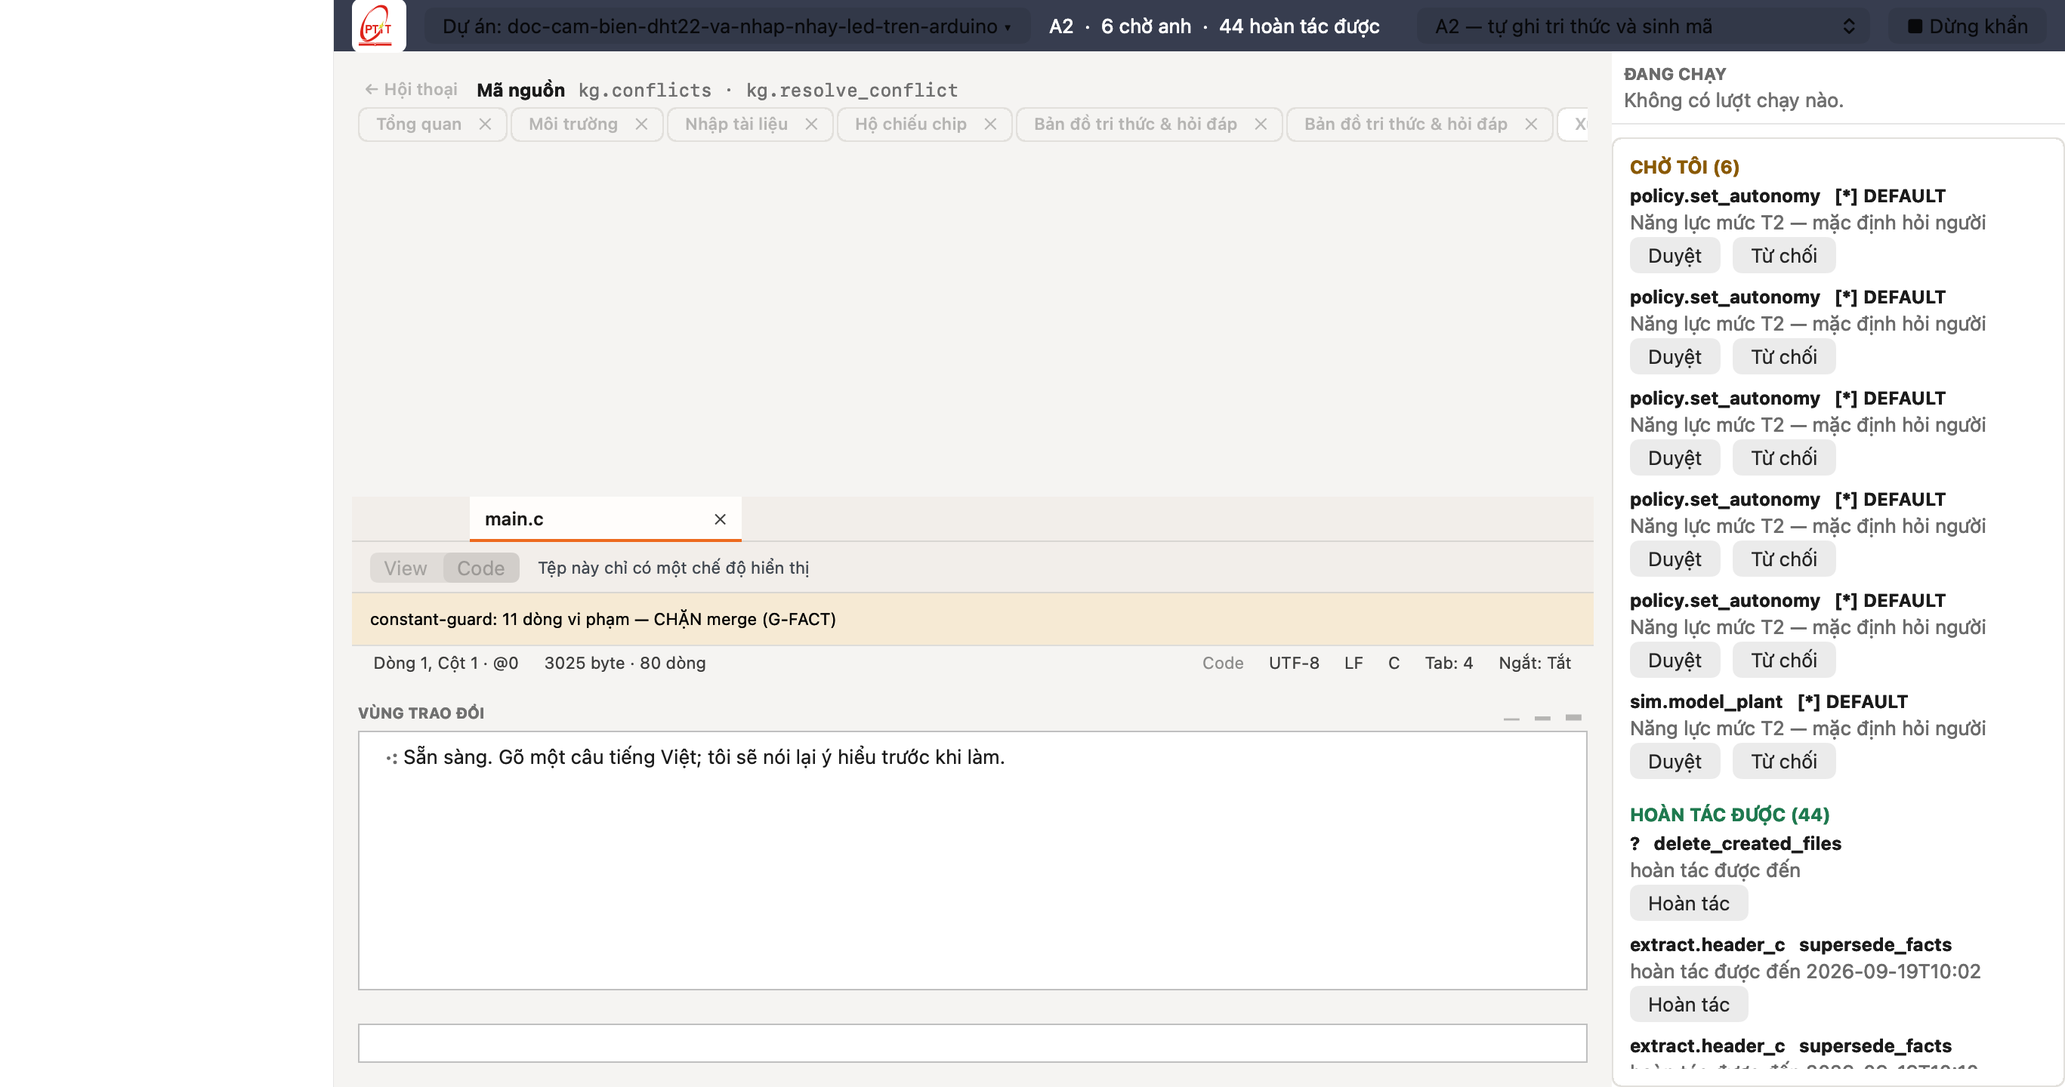
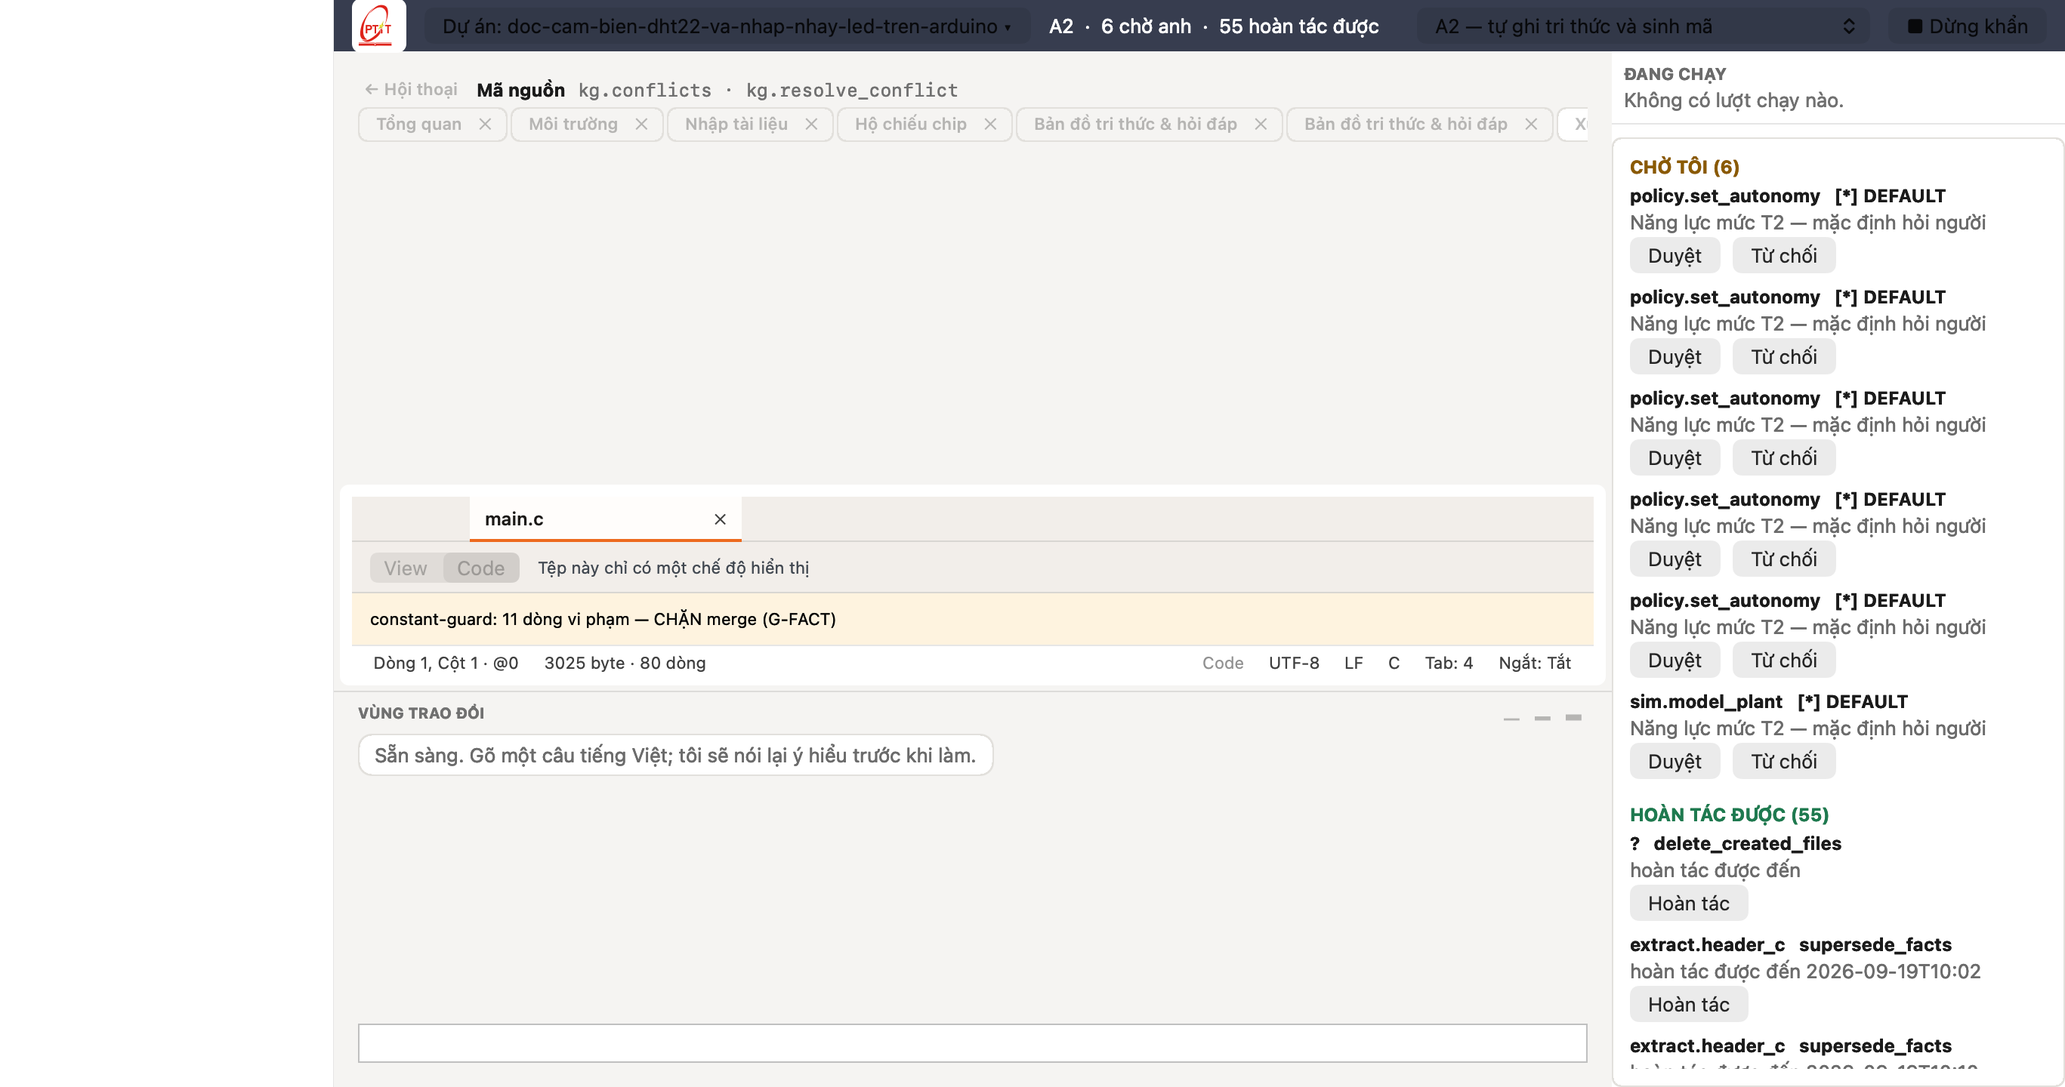
[DEV-130] vùng trao đổi thành bong bóng; ba vùng có ranh giới nhìn thấy được
Đọc: docs/EIDE_UI_Demo_v2.html (#screen, #dock, #chatlog, .msg); UXC-31 §2C,
§2D, §2D.5; UXD-13 v2.0 §3.1–3.2.

Chủ sản phẩm: "cần phân chia màn hình rõ ràng… khu vực trao đổi giữa người và
máy rất đơn giản, hãy xem thật kỹ mô tả để làm cho tử tế". Đúng ở cả hai vế.

- Vùng trao đổi vốn là một KHỐI VĂN BẢN nối chuỗi `Anh: … EIDE: …`. Nó đọc
  được, và nó bắt người phải LÀM VIỆC để biết ai đang nói. Nay là bong bóng:
  người bên phải nền đỏ nhạt, tác tử bên trái nền trắng có viền, việc chờ
  người nền vàng có viền, rộng tối đa 78%.
- Cả cột giữa vốn cùng một màu nền. Nay vùng làm việc có nền TRẮNG bo góc và
  một vạch ngang tách nó khỏi vùng trao đổi.

MỘT LẦN ĐẬP ĐI LÀM LẠI ĐÃ THẤT BẠI và bị hoàn nguyên — ghi lại vì bài học
đáng hơn kết quả. Viết lại toàn bộ bố cục panel thành stack lồng nhau làm cửa
sổ tụt từ 720 pt xuống 70 pt. Nguyên nhân gần: một định nghĩa VÒNG TRÒN
(`cotGiua.height == hangChinh.height` trong khi hangChinh suy từ cotGiua).
Nguyên nhân xa và đáng ghi hơn: cắt vòng xong vẫn 70 pt, vì NSStackView phá
ràng buộc nội bộ của chính nó ở ưu tiên ≤ 999 mà KHÔNG ghi log — mọi sàn đặt
bên trong stack đều bị nuốt im lặng.

Đổi lại từng vùng một rồi chụp ảnh: mỗi bước nhìn thấy được, và lỗi "vùng bản
ghi cao 0" (scroll view không có kích thước nội tại) lộ ra ngay ở ảnh kế tiếp.

1625 pytest · 3116 Swift · self-test 7/7 · vòng giao diện 17/17.

Claude-Session: https://claude.ai/code/session_018cZjBG7cmnMExo5Db3jwh1

Changed region(s): [[0.1865, 0.6562, 0.4974, 0.7188], [0.5907, 0.0, 0.6529, 0.0312]]

diff --git a/apps/geditor/Sources/EIDEKit/EideViews.swift b/apps/geditor/Sources/EIDEKit/EideViews.swift
@@ -236,7 +236,14 @@ public final class ChatView: NSView {
     public var onGui: ((String) -> Void)?
 
     private let cuon = NSScrollView()
-    private let van = NSTextView()
+    /// Cột bong bóng — mỗi lượt một khung nhìn, thay cho khối văn bản nối chuỗi cũ.
+    ///
+    /// Đổi 18/09/2026 theo bản demo UX v2.0. Khối văn bản đọc được, nhưng nó bắt người phải LÀM
+    /// VIỆC để biết ai đang nói: đọc tiền tố ở đầu dòng, rồi dò xem câu kết thúc ở đâu khi nó
+    /// dài ba dòng. Bong bóng trả lời câu ấy bằng VỊ TRÍ và MÀU, trước khi đọc chữ đầu tiên.
+    private let cocLuot = NSStackView()
+    /// Các lượt đã hiện — giữ để `soLuotDeTest` đếm mà không phải phân tích chuỗi.
+    private var luot: [EideBongBong] = []
     /// Ô lệnh có gợi ý "/" (U1). Công khai để panel nạp danh sách năng lực vào.
     public let oLenh = CommandBox()
     /// Chỗ đặt thẻ tương tác (câu hỏi gộp U3, báo cáo, tiến độ). Nằm GIỮA bản ghi hội thoại và
@@ -249,13 +256,23 @@ public final class ChatView: NSView {
 
     public init() {
         super.init(frame: .zero)
-        van.isEditable = false
-        van.drawsBackground = true
-        van.backgroundColor = EideToken.Mau.surface
-        van.textContainerInset = NSSize(width: EideToken.space[2], height: EideToken.space[1])
-        cuon.documentView = van
+        cocLuot.orientation = .vertical
+        cocLuot.alignment = .leading
+        cocLuot.spacing = 5
+        cocLuot.edgeInsets = NSEdgeInsets(top: 2, left: 0, bottom: 2, right: 0)
+        cocLuot.translatesAutoresizingMaskIntoConstraints = false
+        // `contentView` LẬT và đặt TRƯỚC `documentView` — lượt mới ở DƯỚI, và mở ra phải thấy
+        // phần đầu chứ không phải phần cuối (DEV-115(d), DEV-116).
+        cuon.contentView = KhungLat()
+        cuon.documentView = cocLuot
         cuon.hasVerticalScroller = true
-        cuon.borderType = .lineBorder
+        cuon.drawsBackground = false
+        cuon.borderType = .noBorder
+        NSLayoutConstraint.activate([
+            cocLuot.leadingAnchor.constraint(equalTo: cuon.contentView.leadingAnchor),
+            cocLuot.trailingAnchor.constraint(equalTo: cuon.contentView.trailingAnchor),
+            cocLuot.topAnchor.constraint(equalTo: cuon.contentView.topAnchor),
+        ])
 
         oLenh.onGui = { [weak self] t in self?.onGui?(t) }
 
@@ -289,6 +306,14 @@ public final class ChatView: NSView {
             cuon.topAnchor.constraint(equalTo: topAnchor),
             cuon.leadingAnchor.constraint(equalTo: leadingAnchor),
             cuon.trailingAnchor.constraint(equalTo: trailingAnchor),
+            // SÀN cho vùng bản ghi.
+            //
+            // Trước 18/09 chiều cao vùng này đến từ kích thước nội tại của `NSTextView`. Bong
+            // bóng nằm trong một `NSScrollView`, mà scroll view KHÔNG có kích thước nội tại —
+            // nên vùng bản ghi co về 0 và toàn bộ hội thoại biến mất, chỉ còn thẻ và ô gõ. Đo
+            // được ngay trên ảnh bước 11: dưới nhãn "VÙNG TRAO ĐỔI" là thẻ Run, không một lượt
+            // nào. Một vùng trao đổi không hiện lượt trao đổi nào thì không còn là vùng trao đổi.
+            cuon.heightAnchor.constraint(greaterThanOrEqualToConstant: 56),
             cuonThe.topAnchor.constraint(equalTo: cuon.bottomAnchor, constant: s),
             cuonThe.leadingAnchor.constraint(equalTo: leadingAnchor),
             cuonThe.trailingAnchor.constraint(equalTo: trailingAnchor),
@@ -361,31 +386,42 @@ public final class ChatView: NSView {
     /// Hội thoại là một `NSTextView` nối chuỗi, không phải danh sách khung nhìn, nên đếm phải
     /// đọc văn bản. Dùng cho vòng chạy qua giao diện: câu hỏi "gõ xong tác tử có trả lời không"
     /// chỉ trả lời được bằng cách đếm lượt.
-    public var soLuotDeTest: Int {
-        (van.string as NSString).components(separatedBy: "\n")
-            .filter { d in ["Anh: ", "EIDE: ", "Chờ anh: ", "Lỗi: ", "·: "]
-                .contains { d.hasPrefix($0) } }
-            .count
-    }
+    public var soLuotDeTest: Int { luot.count }
+
+    /// Toàn bộ chữ trong hội thoại — cho bài kiểm tìm một câu đã nói.
+    public var chuDeTest: String { luot.map { "\($0.ai.nhan): \($0.van)" }.joined(separator: "\n") }
 
     public func themLuot(by ai: Ai, text: String) {
-        let (nhan, mau): (String, NSColor) = {
+        let b = EideBongBong(ai: {
             switch ai {
-            case .nguoi:   return ("Anh", EideToken.Mau.text)
-            case .tacTu:   return ("EIDE", EideToken.Mau.secondary)
-            case .cho:     return ("Chờ anh", EideToken.Mau.warn)      // U2: việc cần người
-            case .loi:     return ("Lỗi", EideToken.Mau.bad)
-            case .heThong: return ("·", EideToken.Mau.muted)
+            case .nguoi: return .nguoi
+            case .tacTu: return .tacTu
+            case .cho: return .cho
+            case .loi: return .loi
+            case .heThong: return .heThong
             }
-        }()
-        let d = NSMutableAttributedString(
-            string: "\(nhan): ",
-            attributes: [.font: NSFont.boldSystemFont(ofSize: 13), .foregroundColor: mau])
-        d.append(NSAttributedString(
-            string: text + "\n",
-            attributes: [.font: EideToken.fontUI, .foregroundColor: EideToken.Mau.text]))
-        van.textStorage?.append(d)
-        van.scrollToEndOfDocument(nil)
+        }(), van: text)
+        luot.append(b)
+
+        // Bong bóng rộng TỐI ĐA 78%, và neo trái hay phải tuỳ người nói. Một hàng bọc ngoài lo
+        // việc ấy: stack dọc căn `.leading` cho mọi con, nên tự nó không đẩy được bong bóng của
+        // người sang phải.
+        let hang = NSStackView(views: ai == .nguoi ? [NSView(), b] : [b, NSView()])
+        hang.orientation = .horizontal
+        hang.spacing = 0
+        hang.translatesAutoresizingMaskIntoConstraints = false
+        cocLuot.addArrangedSubview(hang)
+        NSLayoutConstraint.activate([
+            hang.widthAnchor.constraint(equalTo: cocLuot.widthAnchor),
+            b.widthAnchor.constraint(lessThanOrEqualTo: cocLuot.widthAnchor, multiplier: 0.78),
+        ])
+        // Cuộn xuống lượt mới nhất — thứ người vừa gõ phải nhìn thấy ngay.
+        DispatchQueue.main.async { [weak self] in
+            guard let self else { return }
+            self.cuon.contentView.scroll(to: NSPoint(
+                x: 0, y: max(0, self.cocLuot.frame.height - self.cuon.contentSize.height)))
+            self.cuon.reflectScrolledClipView(self.cuon.contentView)
+        }
     }
 }
 

diff --git a/apps/geditor/Sources/EIDEKit/EideBongBong.swift b/apps/geditor/Sources/EIDEKit/EideBongBong.swift
@@ -1,0 +1,92 @@
+import AppKit
+
+/// **Một lượt trao đổi** — bong bóng, theo `.msg` của bản demo UX v2.0.
+///
+/// ## Vì sao bong bóng chứ không phải một dòng có tiền tố
+///
+/// Vùng trao đổi cũ là một khối văn bản nối chuỗi: `Anh: …` xuống dòng `EIDE: …` xuống dòng.
+/// Nó đọc được, và nó bắt mắt người phải LÀM VIỆC để biết ai đang nói — đọc tiền tố ở đầu dòng,
+/// rồi dò xem câu kết thúc ở đâu khi nó dài ba dòng. Trong một vùng cao 220 pt có bốn năm lượt,
+/// việc ấy lặp lại liên tục.
+///
+/// Bong bóng trả lời câu "ai nói" bằng VỊ TRÍ và MÀU, trước khi người đọc chữ đầu tiên: người
+/// bên phải nền đỏ nhạt, tác tử bên trái nền trắng có viền. Đó là lý do mọi giao diện trò chuyện
+/// đều làm thế, và là thứ bản demo giữ lại khi bỏ hết những phần khác.
+///
+/// Rộng tối đa 78% để bong bóng có mép — một khối chữ chạm cả hai mép thì không còn là bong
+/// bóng, và mắt lại phải đi tìm tiền tố.
+public final class EideBongBong: NSView {
+
+    /// Ai nói.
+    public enum Ai {
+        case nguoi, tacTu, cho, loi, heThong
+
+        /// Nhãn cũ — giữ để `soLuotDeTest` và nhật ký đọc được như trước.
+        public var nhan: String {
+            switch self {
+            case .nguoi: return "Anh"
+            case .tacTu: return "EIDE"
+            case .cho: return "Chờ anh"
+            case .loi: return "Lỗi"
+            case .heThong: return "·"
+            }
+        }
+
+        var benPhai: Bool { self == .nguoi }
+
+        var nen: NSColor {
+            switch self {
+            case .nguoi: return EideToken.Mau.badBg
+            case .cho: return EideToken.Mau.warnBg
+            case .loi: return EideToken.Mau.badBg
+            default: return EideToken.Mau.surface
+            }
+        }
+
+        var vien: NSColor? {
+            switch self {
+            case .nguoi: return nil
+            case .cho: return EideToken.Mau.warn
+            case .loi: return EideToken.Mau.bad
+            default: return EideToken.Mau.border
+            }
+        }
+    }
+
+    public let ai: Ai
+    public let van: String
+
+    private let nhan = NSTextField(wrappingLabelWithString: "")
+
+    public override func accessibilityRole() -> NSAccessibility.Role? { .group }
+    public override func accessibilityLabel() -> String? { "\(ai.nhan): \(van)" }
+
+    public init(ai: Ai, van: String) {
+        self.ai = ai
+        self.van = van
+        super.init(frame: .zero)
+        translatesAutoresizingMaskIntoConstraints = false
+        wantsLayer = true
+        layer?.backgroundColor = ai.nen.cgColor
+        layer?.cornerRadius = 9
+        if let v = ai.vien {
+            layer?.borderWidth = 1
+            layer?.borderColor = v.cgColor
+        }
+
+        nhan.stringValue = van
+        nhan.font = EideToken.fontUI
+        nhan.textColor = ai == .heThong ? EideToken.Mau.muted : EideToken.Mau.text
+        nhan.translatesAutoresizingMaskIntoConstraints = false
+        addSubview(nhan)
+        NSLayoutConstraint.activate([
+            nhan.topAnchor.constraint(equalTo: topAnchor, constant: 6),
+            nhan.bottomAnchor.constraint(equalTo: bottomAnchor, constant: -6),
+            nhan.leadingAnchor.constraint(equalTo: leadingAnchor, constant: 11),
+            nhan.trailingAnchor.constraint(equalTo: trailingAnchor, constant: -11),
+        ])
+    }
+
+    @available(*, unavailable)
+    required init?(coder: NSCoder) { fatalError() }
+}

diff --git a/apps/geditor/Sources/EIDEKit/EidePanel.swift b/apps/geditor/Sources/EIDEKit/EidePanel.swift
@@ -187,6 +187,10 @@ public final class EidePanel: NSView {
     public let thanhTab = EideThanhTab()
     /// Bảng lệnh ⌘K — UXC-31 §4.
     public let bangLenh = EideBangLenh()
+    /// Nền TRẮNG của vùng làm việc — `#screen` của bản demo.
+    private let nenLamViec = NSView()
+    /// Vạch ngang tách vùng làm việc khỏi vùng trao đổi — `border-top` của `#dock`.
+    private let vachDock = NSBox()
     /// Thanh nhỏ trên vùng trao đổi: nhãn + ba nút đổi chiều cao (UXC-31 §2D.3).
     private let thanhHoiThoai = NSStackView()
     /// Năng lực đứng sau màn đang mở — hiện cạnh tên màn (UXC-31 §2C.4).
@@ -1698,6 +1702,23 @@ public final class EidePanel: NSView {
         thanhHoiThoai.translatesAutoresizingMaskIntoConstraints = false
         addSubview(thanhHoiThoai)
 
+        // RANH GIỚI BA VÙNG, vẽ ra chứ không để người tự đoán (bản demo UX v2.0: `#screen` nền
+        // trắng, `#dock` nền xám có viền trên).
+        //
+        // Trước đây cả cột giữa cùng một màu, nên vùng làm việc và vùng trao đổi dính vào nhau
+        // thành một dải; người dùng phải suy ra ranh giới từ nội dung. Hai khung nhìn nền dưới
+        // đây không nhận chuột, không tham gia bố cục của ai — chúng chỉ nói ra chỗ một vùng
+        // kết thúc và vùng kia bắt đầu.
+        nenLamViec.wantsLayer = true
+        nenLamViec.layer?.backgroundColor = EideToken.Mau.surface.cgColor
+        nenLamViec.layer?.cornerRadius = EideToken.radius[0]
+        nenLamViec.translatesAutoresizingMaskIntoConstraints = false
+        addSubview(nenLamViec, positioned: .below, relativeTo: nil)
+
+        vachDock.boxType = .separator
+        vachDock.translatesAutoresizingMaskIntoConstraints = false
+        addSubview(vachDock)
+
         thanhTab.onChon = { [weak self] tien in
             guard let self else { return }
             self.nguoiVuaChonMan()
@@ -1762,6 +1783,16 @@ public final class EidePanel: NSView {
             thanhHoiThoai.leadingAnchor.constraint(equalTo: leadingAnchor, constant: g),
             thanhHoiThoai.trailingAnchor.constraint(equalTo: vungPhai.leadingAnchor, constant: -g),
             thanhHoiThoai.bottomAnchor.constraint(equalTo: hoiThoai.topAnchor, constant: -2),
+
+            vachDock.leadingAnchor.constraint(equalTo: leadingAnchor),
+            vachDock.trailingAnchor.constraint(equalTo: vungPhai.leadingAnchor),
+            vachDock.bottomAnchor.constraint(equalTo: thanhHoiThoai.topAnchor, constant: -4),
+            vachDock.heightAnchor.constraint(equalToConstant: 1),
+
+            nenLamViec.topAnchor.constraint(equalTo: daiCu.bottomAnchor, constant: 4),
+            nenLamViec.leadingAnchor.constraint(equalTo: leadingAnchor, constant: 4),
+            nenLamViec.trailingAnchor.constraint(equalTo: vungPhai.leadingAnchor, constant: -4),
+            nenLamViec.bottomAnchor.constraint(equalTo: vachDock.topAnchor, constant: -4),
 
             hoiThoai.leadingAnchor.constraint(equalTo: leadingAnchor, constant: g),
             hoiThoai.trailingAnchor.constraint(equalTo: vungPhai.leadingAnchor, constant: -g),

diff --git a/docs/nhat-ky/2026-09-17-vong-giao-dien.md b/docs/nhat-ky/2026-09-17-vong-giao-dien.md
@@ -6,7 +6,7 @@ Dự án: /Users/congvt/eide/doc-cam-bien-dht22-va-nhap-nhay-led-tren-arduino
 ## 1. Mở dự án — cửa sổ dựng xong, cột điều hướng có mặt
 
 - ✅ dự án `doc-cam-bien-dht22-va-nhap-nhay-led-tren-arduino` · panel sẵn sàng
-- 3000 ms
+- 3001 ms
 - cửa sổ 720 pt · Auto Layout đòi 286 pt
 - ảnh: `buoc-01.png`
 
@@ -20,91 +20,91 @@ Dự án: /Users/congvt/eide/doc-cam-bien-dht22-va-nhap-nhay-led-tren-arduino
 ## 3. Môi trường — máy này có gì
 
 - ✅ 7 dòng · 1 bảng
-- 4006 ms
+- 4008 ms
 - cửa sổ 720 pt · Auto Layout đòi 286 pt
 - ảnh: `buoc-03.png`
 
 ## 4. Nhập tài liệu — trích fact từ một header C
 
 - ✅ 1 dòng
-- 7010 ms
+- 7012 ms
 - cửa sổ 720 pt · Auto Layout đòi 286 pt
 - ảnh: `buoc-04.png`
 
 ## 5. Hộ chiếu chip — tra fact vừa trích
 
 - ✅ 290 dòng · 1 bảng
-- 4010 ms
+- 4012 ms
 - cửa sổ 720 pt · Auto Layout đòi 286 pt
 - ảnh: `buoc-05.png`
 
 ## 6. Bản đồ tri thức — đồ thị dựng từ store
 
 - ✅ 2 dòng · 1 cây
-- 5024 ms
+- 5023 ms
 - cửa sổ 720 pt · Auto Layout đòi 286 pt
 - ảnh: `buoc-06.png`
 
 ## 7. Xung đột tri thức — hai nguồn nói khác nhau
 
 - ✅ 0 dòng
-- 4016 ms
+- 4017 ms
 - cửa sổ 720 pt · Auto Layout đòi 286 pt
 - ảnh: `buoc-07.png`
 
 ## 8. Mã nguồn — mở một tệp, xem dấu tri thức ở lề
 
 - ✅ main.c · 0 dòng có fact · 11 dòng vi phạm constant-guard
-- 8615 ms
+- 8014 ms
 - cửa sổ 720 pt · Auto Layout đòi 286 pt
 - ảnh: `buoc-08.png`
 
 ## 9. Mô phỏng — chạy firmware thật nếu dự án có
 
 - ✅ 7 dòng · 1 khối mã
-- 92021 ms
+- 92020 ms
 - cửa sổ 720 pt · Auto Layout đòi 286 pt
 - ảnh: `buoc-09.png`
 
 ## 10. Ô LỆNH gõ được NGAY TRÊN một màn chuyên đề
 
 - ✅ gõ được CẢ trên màn chuyên đề lẫn ở hội thoại · 9 lượt
-- 89027 ms
+- 89026 ms
 - cửa sổ 720 pt · Auto Layout đòi 286 pt
 - ảnh: `buoc-10.png`
 
 ## 11. Tác tử tự MỞ và FOCUS đúng màn của việc nó đang làm
 
 - ✅ đang ở `Env` → tác tử chạy `passport.query` → tự mở `Passport`
-- 36013 ms
+- 36012 ms
 - cửa sổ 720 pt · Auto Layout đòi 286 pt
 - ảnh: `buoc-11.png`
 
 ## 12. BA ĐIỀU KIỆN: tác tử sửa mã → mở màn mã, mà hội thoại VẪN hiện
 
 - ✅ mở màn `Code` · hội thoại vẫn hiện
-- 35014 ms
+- 35015 ms
 - cửa sổ 720 pt · Auto Layout đòi 286 pt
 - ảnh: `buoc-12.png`
 
 ## 13. Nhật ký — mọi việc vừa làm có vào sổ cái không
 
-- ✅ 1521 dòng
-- 5011 ms
+- ✅ 1524 dòng
+- 5012 ms
 - cửa sổ 720 pt · Auto Layout đòi 286 pt
 - ảnh: `buoc-13.png`
 
 ## 14. Mô hình & chi phí — tiêu bao nhiêu trong vòng này
 
 - ✅ 5 dòng
-- 4013 ms
+- 4014 ms
 - cửa sổ 720 pt · Auto Layout đòi 286 pt
 - ảnh: `buoc-14.png`
 
 ## 15. Hành trình & cổng — chính sách đã quyết những gì
 
 - ✅ 11 dòng
-- 4016 ms
+- 4017 ms
 - cửa sổ 720 pt · Auto Layout đòi 286 pt
 - ảnh: `buoc-15.png`
 
@@ -124,4 +124,4 @@ Dự án: /Users/congvt/eide/doc-cam-bien-dht22-va-nhap-nhay-led-tren-arduino
 
 ---
 
-**17/17 bước chạy được** · tổng 311.1 s
+**17/17 bước chạy được** · tổng 310.6 s
